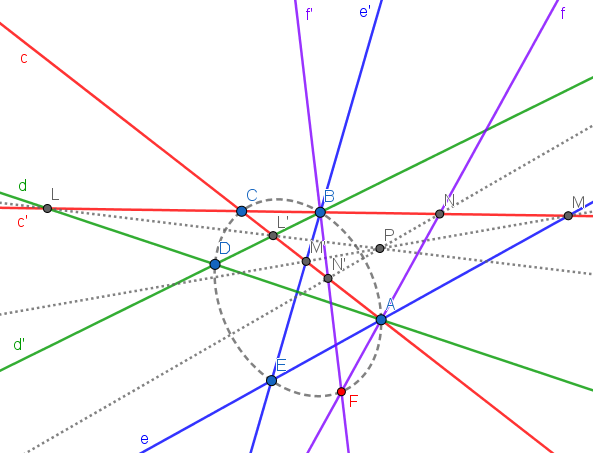
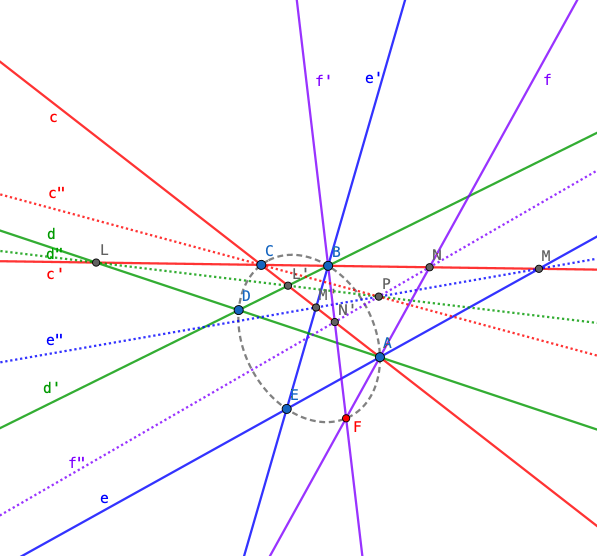
Steiner conic → Quatric curve

diff --git a/projective/steiner-conic-h1.py b/projective/steiner-conic-h1.py
@@ -1,8 +1,8 @@
-from sympy import poly, symbols
+from sympy import expand, poly, symbols
 from homogeneous import *
 
 def main():
-    a, b, c, d, e, f, g, h, j, k, m, n, p, q, r, s, x, y, z = symbols('a, b, c, d, e, f, g, h, j, k, m, n, p, q, r, s, x, y, z')
+    a, b, c, d, e, f, g, h, j, k, m, n, p, q, r, s, t, u, x, y, z = symbols('a, b, c, d, e, f, g, h, j, k, m, n, p, q, r, s, t, u, x, y, z')
     AC, AD, BC, BD = (a, b, c), (d, e, f), (g, h, j), (k, m, n)
     AE, BE = span(p, AC, q, AD), span(r, BC, s, BD)
     F = (x, y, z)
@@ -16,7 +16,23 @@ def main():
     print('N1:', N1)
     P = cross(cross(L, L1), cross(M, M1))
     print('P:', P)
-    print('Locus of F:', poly(incidence(N, N1, P), F).expr, '= 0')
+    p = poly(incidence(N, N1, P), F);
+    cxx, cxy, cxz, cyy, cyz, czz = p.nth(2, 0, 0), p.nth(1, 1, 0), p.nth(1, 0, 1), p.nth(0, 2, 0), p.nth(0, 1, 1), p.nth(0, 0, 2)
+    gcd = gcd_list([cxx, cxy, cxz, cyy, cyz, czz])
+    cxx, cxy, cxz, cyy, cyz, czz = cancel(cxx/gcd), cancel(cxy/gcd), cancel(cxz/gcd), cancel(cyy/gcd), cancel(cyz/gcd), cancel(czz/gcd)
+    p = poly(cxx*x**2 + cxy*x*y + cxz*x*z + cyy*y**2 + cyz*y*z + czz*z**2, F).expr;
+    print('Locus of F:', p, '= 0')
+    # Verify if F is on the locus equation
+    B = cross(BC, BD)
+    AF = span(t, AC, u, AD)
+    print('AF:', AF)
+    N = cross(AF, BC)
+    print('N:', N)
+    N1 = cross(AC, cross(N, P))
+    print('N1:', N1)
+    F = cross(AF, cross(B, N1))
+    print('F:', F)
+    print('Is F on the locus equation?', expand(p.subs(x, F[0]).subs(y, F[1]).subs(z, F[2])) == 0)
 
 if __name__ == '__main__':
     main()

diff --git a/projective/steiner-conic-h3.py b/projective/steiner-conic-h3.py
@@ -17,7 +17,17 @@ def main():
             row.append(rst)
         mat.append(row)
     print('M =', Matrix(mat).subs(subs))
-    print('det M =', poly(expand(Matrix(mat).det().subs(subs)), (x, y, z)).expr)
+    p = poly(expand(Matrix(mat).det().subs(subs)), (x, y, z))
+    cxx, cxy, cxz, cyy, cyz, czz = p.nth(2, 0, 0), p.nth(1, 1, 0), p.nth(1, 0, 1), p.nth(0, 2, 0), p.nth(0, 1, 1), p.nth(0, 0, 2)
+    gcd = gcd_list([cxx, cxy, cxz, cyy, cyz, czz])
+    cxx, cxy, cxz, cyy, cyz, czz = cancel(cxx/gcd), cancel(cxy/gcd), cancel(cxz/gcd), cancel(cyy/gcd), cancel(cyz/gcd), cancel(czz/gcd) 
+    print('Locus of F:')
+    print('x**2*(', cxx, ') +')
+    print('x*y*(', cxy, ') +')
+    print('x*z*(', cxz, ') +')
+    print('y**2*(', cyy, ') +')
+    print('y*z*(', cyz, ') +')
+    print('z**2*(', czz, ') = 0')
 
 if __name__ == '__main__':
     main()

diff --git a/projective/steiner-conic-h2.py b/projective/steiner-conic-h2.py
@@ -18,7 +18,17 @@ def main():
     print('N1:', N1)
     P = cross(cross(L, L1), cross(M, M1))
     print('P:', P)
-    print('Locus of F:', poly(incidence(N, N1, P), F).expr, '= 0')
+    p = poly(incidence(N, N1, P), F);
+    cxx, cxy, cxz, cyy, cyz, czz = p.nth(2, 0, 0), p.nth(1, 1, 0), p.nth(1, 0, 1), p.nth(0, 2, 0), p.nth(0, 1, 1), p.nth(0, 0, 2)
+    gcd = gcd_list([cxx, cxy, cxz, cyy, cyz, czz])
+    cxx, cxy, cxz, cyy, cyz, czz = cancel(cxx/gcd), cancel(cxy/gcd), cancel(cxz/gcd), cancel(cyy/gcd), cancel(cyz/gcd), cancel(czz/gcd) 
+    print('Locus of F:')
+    print('x**2*(', cxx, ') +')
+    print('x*y*(', cxy, ') +')
+    print('x*z*(', cxz, ') +')
+    print('y**2*(', cyy, ') +')
+    print('y*z*(', cyz, ') +')
+    print('z**2*(', czz, ') = 0')
 
 if __name__ == '__main__':
     main()

diff --git a/steiner-conic.md b/steiner-conic.md
@@ -4,7 +4,7 @@ The **[Steiner Conic](https://en.wikipedia.org/wiki/Steiner_conic)** is an alter
 
 In the above figure,
 
-<img src="https://latex.codecogs.com/gif.latex?(c,d,e,f)\frac{A,c'}{\overline\wedge}(C,L,M,N)\frac{P}{\overline\wedge}(C,L',M',N')\frac{c,B}{\overline\wedge}(c',d',e',f')">
+<img src="https://latex.codecogs.com/gif.latex?(c,d,e,f)\frac{c'}{\overline\wedge}(c'',d'',e'',f'')\frac{c}{\overline\wedge}(c',d',e',f')">
 
 Therefore, by given lines *cdec'd'e'* or points *ABCDE*, and by given an arbitrary line *f* passing through *A*, we can construct line *f'* or point *F* by these steps:
 
@@ -13,6 +13,20 @@ Therefore, by given lines *cdec'd'e'* or points *ABCDE*, and by given an arbitra
 3. <img src="https://latex.codecogs.com/gif.latex?N'=AC{\cap}NP">
 4. <img src="https://latex.codecogs.com/gif.latex?F=f{\cap}BN'">
 
+This is the construction of Steiner *point* conic. Analogously, we can construct the Steiner *line* conic according to the principle of duality.
+
 ### Steiner conic and Quatric curve
+
+#### Steiner conic → Quatric curve
+
+The Steiner conic follows the quatric curve equation <img src="https://latex.codecogs.com/gif.latex?Ax^2+Bxy+Cy^2+Dxz+Eyz+F=0">. Let's denote lines *cdec'd'e'* in homogeneous coordinate:
+
+<img src="https://latex.codecogs.com/gif.latex?\begin{cases}\mathbf{c}=[a,b,c]\\\mathbf{d}=[d,e,f]\\\mathbf{e}=p\mathbf{c}+q\mathbf{d}\\\mathbf{c'}=[g,h,j]\\\mathbf{d'}=[k,m,n]\\\mathbf{e'}=r\mathbf{c'}+s\mathbf{d'}\end{cases}">
+
+Point <img src="https://latex.codecogs.com/gif.latex?F(x,y,z)"> follows <img src="https://latex.codecogs.com/gif.latex?N=BC{\cap}AF">, <img src="https://latex.codecogs.com/gif.latex?N'=AC{\cap}BF">, and *NN'P* are collinear, and *N* and *N'* can be calculated by step 1 and 2 in the above the construction. So we can get the equation eventually:
+
+<img src="https://latex.codecogs.com/gif.latex?\begin{array}{l}(akps-dgqr)x^2+(amps+bkps-dhqr-egqr)xy+(bmps-ehqr)y^2+\\(anps+ckps-djqr-fgqr)xz+(bnps+cmps-ejqr-fhqr)yz+(cnps-fjqr)z^2=0\end{array}">
+
+#### Quatric curve → Steiner conic
 
 ### Pascal's theorem
